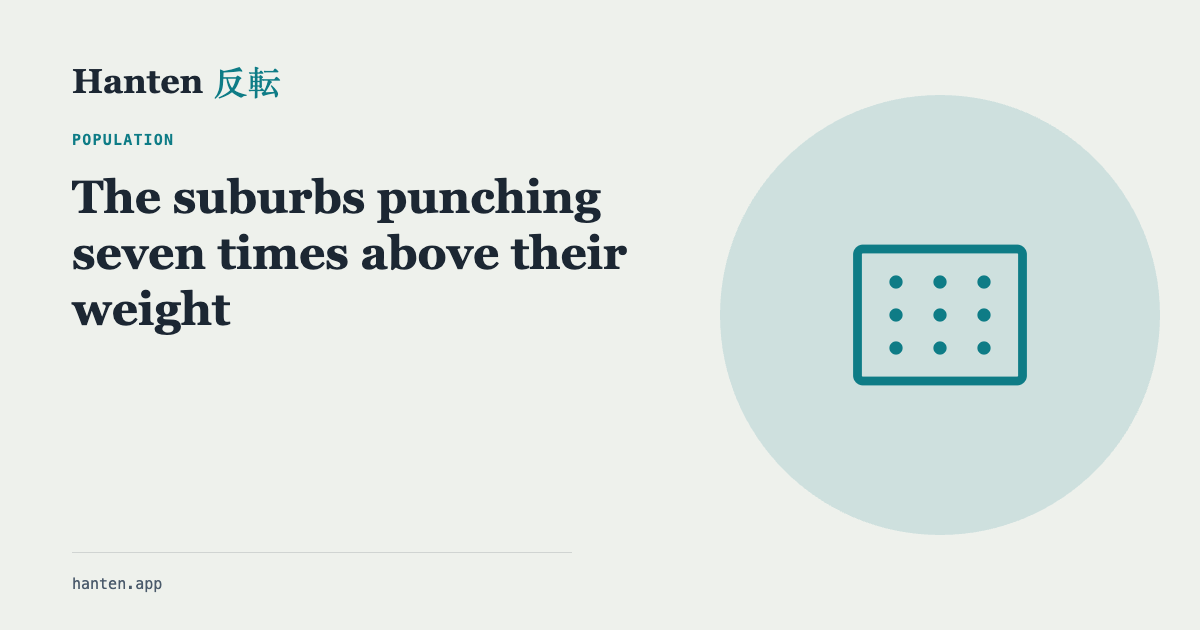
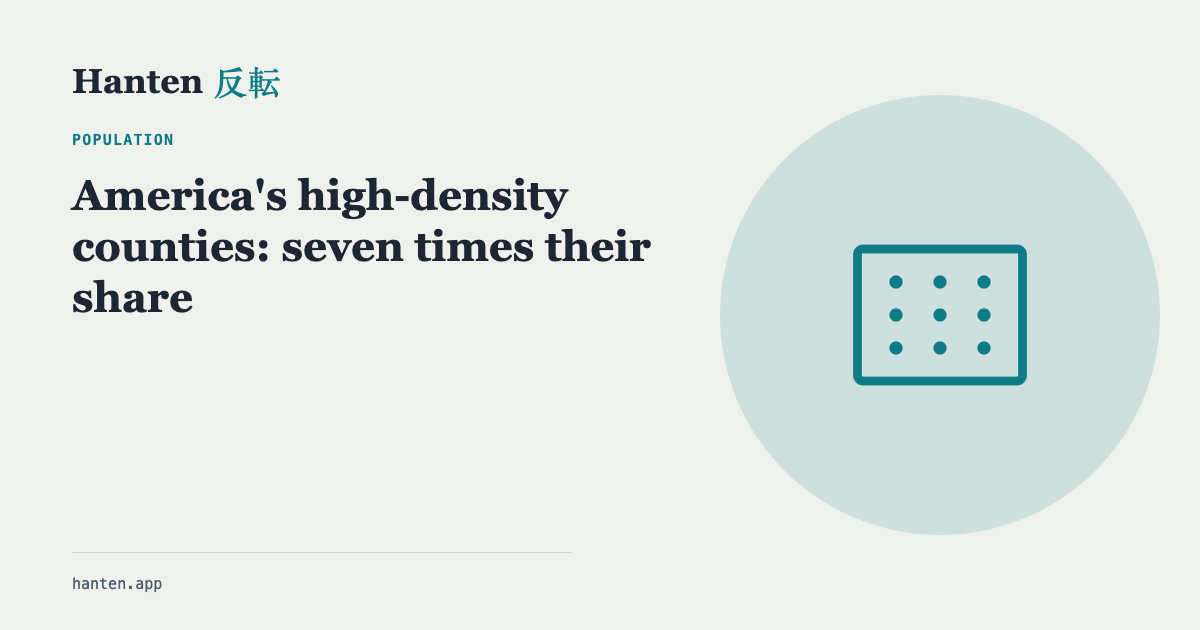
Increase color contrast and disambiguate high vs. very-high density maps
The high-density and very-high-density pages used two shades of blue that
were easy to mix up. High density now uses amber/gold (#c98a23) instead of
blue-teal, giving a clear red -> gold -> navy progression across the three
density tiers (also applied to the comparison overview's middle panel for
consistency).

Also renamed both pages so each is unambiguous on its own — "America's
high-density counties" vs. "America's very-high-density counties" — since
a user might land on either one via a shared link without the other for
context. Updated titles, meta/OG tags, card copy on the homepage, and
regenerated both OG images with the new titles baked in.

Changed region(s): [[0.0617, 0.2714, 0.555, 0.5429]]

diff --git a/density-high.html b/density-high.html
@@ -3,18 +3,18 @@
 <head>
 <meta charset="utf-8">
 <meta name="viewport" content="width=device-width, initial-scale=1">
-<title>Hanten — The Suburbs Punching Seven Times Above Their Weight</title>
-<meta name="description" content="2% of the land holds 14% of the people — the suburbs are pulling more than seven times their weight.">
+<title>Hanten — America's High-Density Counties</title>
+<meta name="description" content="500 to 999 people per square mile — high density, not to be confused with very-high-density. 2% of the land, 14% of the people.">
 <meta property="og:type" content="website">
 <meta property="og:url" content="https://hanten.app/density-high.html">
-<meta property="og:title" content="Hanten — The suburbs punching seven times above their weight">
-<meta property="og:description" content="2% of the land holds 14% of the people — the suburbs are pulling more than seven times their weight.">
+<meta property="og:title" content="Hanten — America's high-density counties">
+<meta property="og:description" content="500 to 999 people per square mile — high density, not to be confused with very-high-density. 2% of the land, 14% of the people.">
 <meta property="og:image" content="https://hanten.app/data/og/density-high.png">
 <meta property="og:image:width" content="1200">
 <meta property="og:image:height" content="630">
 <meta name="twitter:card" content="summary_large_image">
-<meta name="twitter:title" content="Hanten — The suburbs punching seven times above their weight">
-<meta name="twitter:description" content="2% of the land holds 14% of the people — the suburbs are pulling more than seven times their weight.">
+<meta name="twitter:title" content="Hanten — America's high-density counties">
+<meta name="twitter:description" content="500 to 999 people per square mile — high density, not to be confused with very-high-density. 2% of the land, 14% of the people.">
 <meta name="twitter:image" content="https://hanten.app/data/og/density-high.png">
 <style>
   :root {
@@ -25,8 +25,8 @@
     --line: rgba(28,39,51,0.14);
     --accent: #0e7c86;
     --accent-soft: rgba(14,124,134,0.14);
-    --dense: #1f6f8b;
-    --dense-soft: #bcd3da;
+    --dense: #c98a23;
+    --dense-soft: #e6cd9c;
     --filled: #d6dbd0;
     --filled-line: #b9c0b2;
   }
@@ -118,8 +118,8 @@
 </header>
 
 <main>
-  <h1>The suburbs punching seven times above their weight</h1>
-  <p class="sub">Every county below with 500 to 999 people per square mile — solid suburbs and small cities, short of big-city dense — is shaded in.</p>
+  <h1>America's high-density counties: seven times their share</h1>
+  <p class="sub">Every county below with 500 to 999 people per square mile — high density, but not the very-high-density tier — is shaded in.</p>
   <div id="save-image-slot"></div>
 
   <div class="stat-row">
@@ -143,8 +143,8 @@
   </div>
 
   <div class="caption">
-    <p><strong>Not quite the city, but far from empty.</strong> These 118 counties are solid suburbs and small metro areas — dense enough to feel urban, short of the skyline. On just 2% of the country's land, they hold more than seven times their proportional share of the population.</p>
-    <p>Stack this against the emptiest slice of the map — 46% of the land holding barely 1% of the people — and the contrast is stark. See <a href="density-extremes.html">all three density cutoffs side by side</a>.</p>
+    <p><strong>Not quite the city, but far from empty.</strong> These 118 counties are "high density" on the Census Bureau's scale — solid suburbs and small metro areas, dense enough to feel urban, but a full tier below the very-high-density counties. On just 2% of the country's land, they hold more than seven times their proportional share of the population.</p>
+    <p>Stack this against the emptiest slice of the map — 46% of the land holding barely 1% of the people — and the contrast is stark. See <a href="density-extremes.html">all three density cutoffs side by side</a>, including the <a href="density-veryhigh.html">very-high-density counties</a>.</p>
     <p class="source">Sources: U.S. Census Bureau, Vintage 2023 Population Estimates (county totals) and 2023 Gazetteer Files (land area). County boundaries: US Census via us-atlas. 118 of 3,144 counties (Puerto Rico excluded — not covered by this population estimates release).</p>
   </div>
 </main>
@@ -182,7 +182,7 @@
 <script src="https://cdn.jsdelivr.net/npm/html2canvas@1.4.1/dist/html2canvas.min.js"></script>
 <script src="data/save-image.js"></script>
 <script>
-  HantenSaveImage.init({ target: "#map-wrap", title: "The suburbs punching seven times above their weight", filename: "hanten-density-high.png" });
+  HantenSaveImage.init({ target: "#map-wrap", title: "America's high-density counties: seven times their share", filename: "hanten-density-high.png" });
 </script>
 
 <script defer src="/_vercel/insights/script.js"></script>

diff --git a/density-veryhigh.html b/density-veryhigh.html
@@ -3,18 +3,18 @@
 <head>
 <meta charset="utf-8">
 <meta name="viewport" content="width=device-width, initial-scale=1">
-<title>Hanten — Under 2% of America, 40% of Its People</title>
-<meta name="description" content="1.8% of the land holds 40% of the people — the most crowded slice of the map, by a wide margin.">
+<title>Hanten — America's Very-High-Density Counties</title>
+<meta name="description" content="1,000+ people per square mile — the most crowded slice of the map. Under 2% of the land holds 40% of the people.">
 <meta property="og:type" content="website">
 <meta property="og:url" content="https://hanten.app/density-veryhigh.html">
-<meta property="og:title" content="Hanten — Under 2% of America, 40% of its people">
-<meta property="og:description" content="1.8% of the land holds 40% of the people — the most crowded slice of the map, by a wide margin.">
+<meta property="og:title" content="Hanten — America's very-high-density counties">
+<meta property="og:description" content="1,000+ people per square mile — the most crowded slice of the map. Under 2% of the land holds 40% of the people.">
 <meta property="og:image" content="https://hanten.app/data/og/density-veryhigh.png">
 <meta property="og:image:width" content="1200">
 <meta property="og:image:height" content="630">
 <meta name="twitter:card" content="summary_large_image">
-<meta name="twitter:title" content="Hanten — Under 2% of America, 40% of its people">
-<meta name="twitter:description" content="1.8% of the land holds 40% of the people — the most crowded slice of the map, by a wide margin.">
+<meta name="twitter:title" content="Hanten — America's very-high-density counties">
+<meta name="twitter:description" content="1,000+ people per square mile — the most crowded slice of the map. Under 2% of the land holds 40% of the people.">
 <meta name="twitter:image" content="https://hanten.app/data/og/density-veryhigh.png">
 <style>
   :root {
@@ -118,8 +118,8 @@
 </header>
 
 <main>
-  <h1>Under 2% of America, 40% of its people</h1>
-  <p class="sub">Every county below with 1,000 or more people per square mile — the historical Census Bureau line for "urban" — is shaded in.</p>
+  <h1>America's very-high-density counties: 40% of the people</h1>
+  <p class="sub">Every county below with 1,000 or more people per square mile — very high density, a full tier above merely "high density" — is shaded in.</p>
   <div id="save-image-slot"></div>
 
   <div class="stat-row">
@@ -143,8 +143,8 @@
   </div>
 
   <div class="caption">
-    <p><strong>This is where most of America actually lives.</strong> These 159 counties cross the Census Bureau's historical density line for "urban" — 1,000 people per square mile. Together, they hold nearly 40% of the country's population on well under 2% of its land.</p>
-    <p>Compare it with the other end of the map — 46% of the land holding barely 1% of the people. See <a href="density-extremes.html">all three density cutoffs side by side</a>.</p>
+    <p><strong>This is where most of America actually lives.</strong> These 159 counties are "very high density" — a full tier above the merely "high density" suburbs — crossing the Census Bureau's historical line for "urban," 1,000 people per square mile. Together, they hold nearly 40% of the country's population on well under 2% of its land.</p>
+    <p>Compare it with the other end of the map — 46% of the land holding barely 1% of the people. See <a href="density-extremes.html">all three density cutoffs side by side</a>, including the <a href="density-high.html">high-density counties</a> one tier down.</p>
     <p class="source">Sources: U.S. Census Bureau, Vintage 2023 Population Estimates (county totals) and 2023 Gazetteer Files (land area). County boundaries: US Census via us-atlas. 159 of 3,144 counties (Puerto Rico excluded — not covered by this population estimates release).</p>
   </div>
 </main>
@@ -182,7 +182,7 @@
 <script src="https://cdn.jsdelivr.net/npm/html2canvas@1.4.1/dist/html2canvas.min.js"></script>
 <script src="data/save-image.js"></script>
 <script>
-  HantenSaveImage.init({ target: "#map-wrap", title: "Under 2% of America, 40% of its people", filename: "hanten-density-veryhigh.png" });
+  HantenSaveImage.init({ target: "#map-wrap", title: "America's very-high-density counties: 40% of the people", filename: "hanten-density-veryhigh.png" });
 </script>
 
 <script defer src="/_vercel/insights/script.js"></script>

diff --git a/index.html b/index.html
@@ -249,8 +249,8 @@
         <circle cx="28" cy="26" r="1.2" fill="currentColor" stroke="none"/>
       </svg></div>
       <div class="tag">United States</div>
-      <h2>The suburbs punching seven times above their weight</h2>
-      <p>2% of the land holds 14% of the people — the suburbs are pulling more than seven times their weight.</p>
+      <h2>America's high-density counties: seven times their share</h2>
+      <p>500–999 people per square mile — high density, not to be confused with very-high-density. 2% of the land, 14% of the people.</p>
     </a>
     <a class="card" data-cat="population" data-subgroup="us-population" href="density-veryhigh.html">
       <div class="card-icon"><svg viewBox="0 0 40 40" fill="none" stroke="currentColor" stroke-width="1.6" stroke-linecap="round" stroke-linejoin="round">
@@ -269,8 +269,8 @@
         <circle cx="30" cy="26" r="1.1" fill="currentColor" stroke="none"/>
       </svg></div>
       <div class="tag">United States</div>
-      <h2>Under 2% of America, 40% of its people</h2>
-      <p>1.8% of the land holds 40% of the people — the most crowded slice of the map, by a wide margin.</p>
+      <h2>America's very-high-density counties: 40% of the people</h2>
+      <p>1,000+ people per square mile — the most crowded slice of the map. Under 2% of the land, 40% of the people.</p>
     </a>
     <a class="card" data-cat="population" data-subgroup="us-population" href="density-extremes.html">
       <div class="card-icon"><svg viewBox="0 0 40 40" fill="none" stroke="currentColor" stroke-width="1.6" stroke-linecap="round" stroke-linejoin="round">

diff --git a/density-extremes.html b/density-extremes.html
@@ -29,8 +29,8 @@
     --filled-line: #b9c0b2;
     --c-empty: #c1442d;
     --c-empty-soft: #e7c3b9;
-    --c-dense: #1f6f8b;
-    --c-dense-soft: #bcd3da;
+    --c-dense: #c98a23;
+    --c-dense-soft: #e6cd9c;
     --c-verydense: #0b3d5c;
     --c-verydense-soft: #aec2cf;
   }